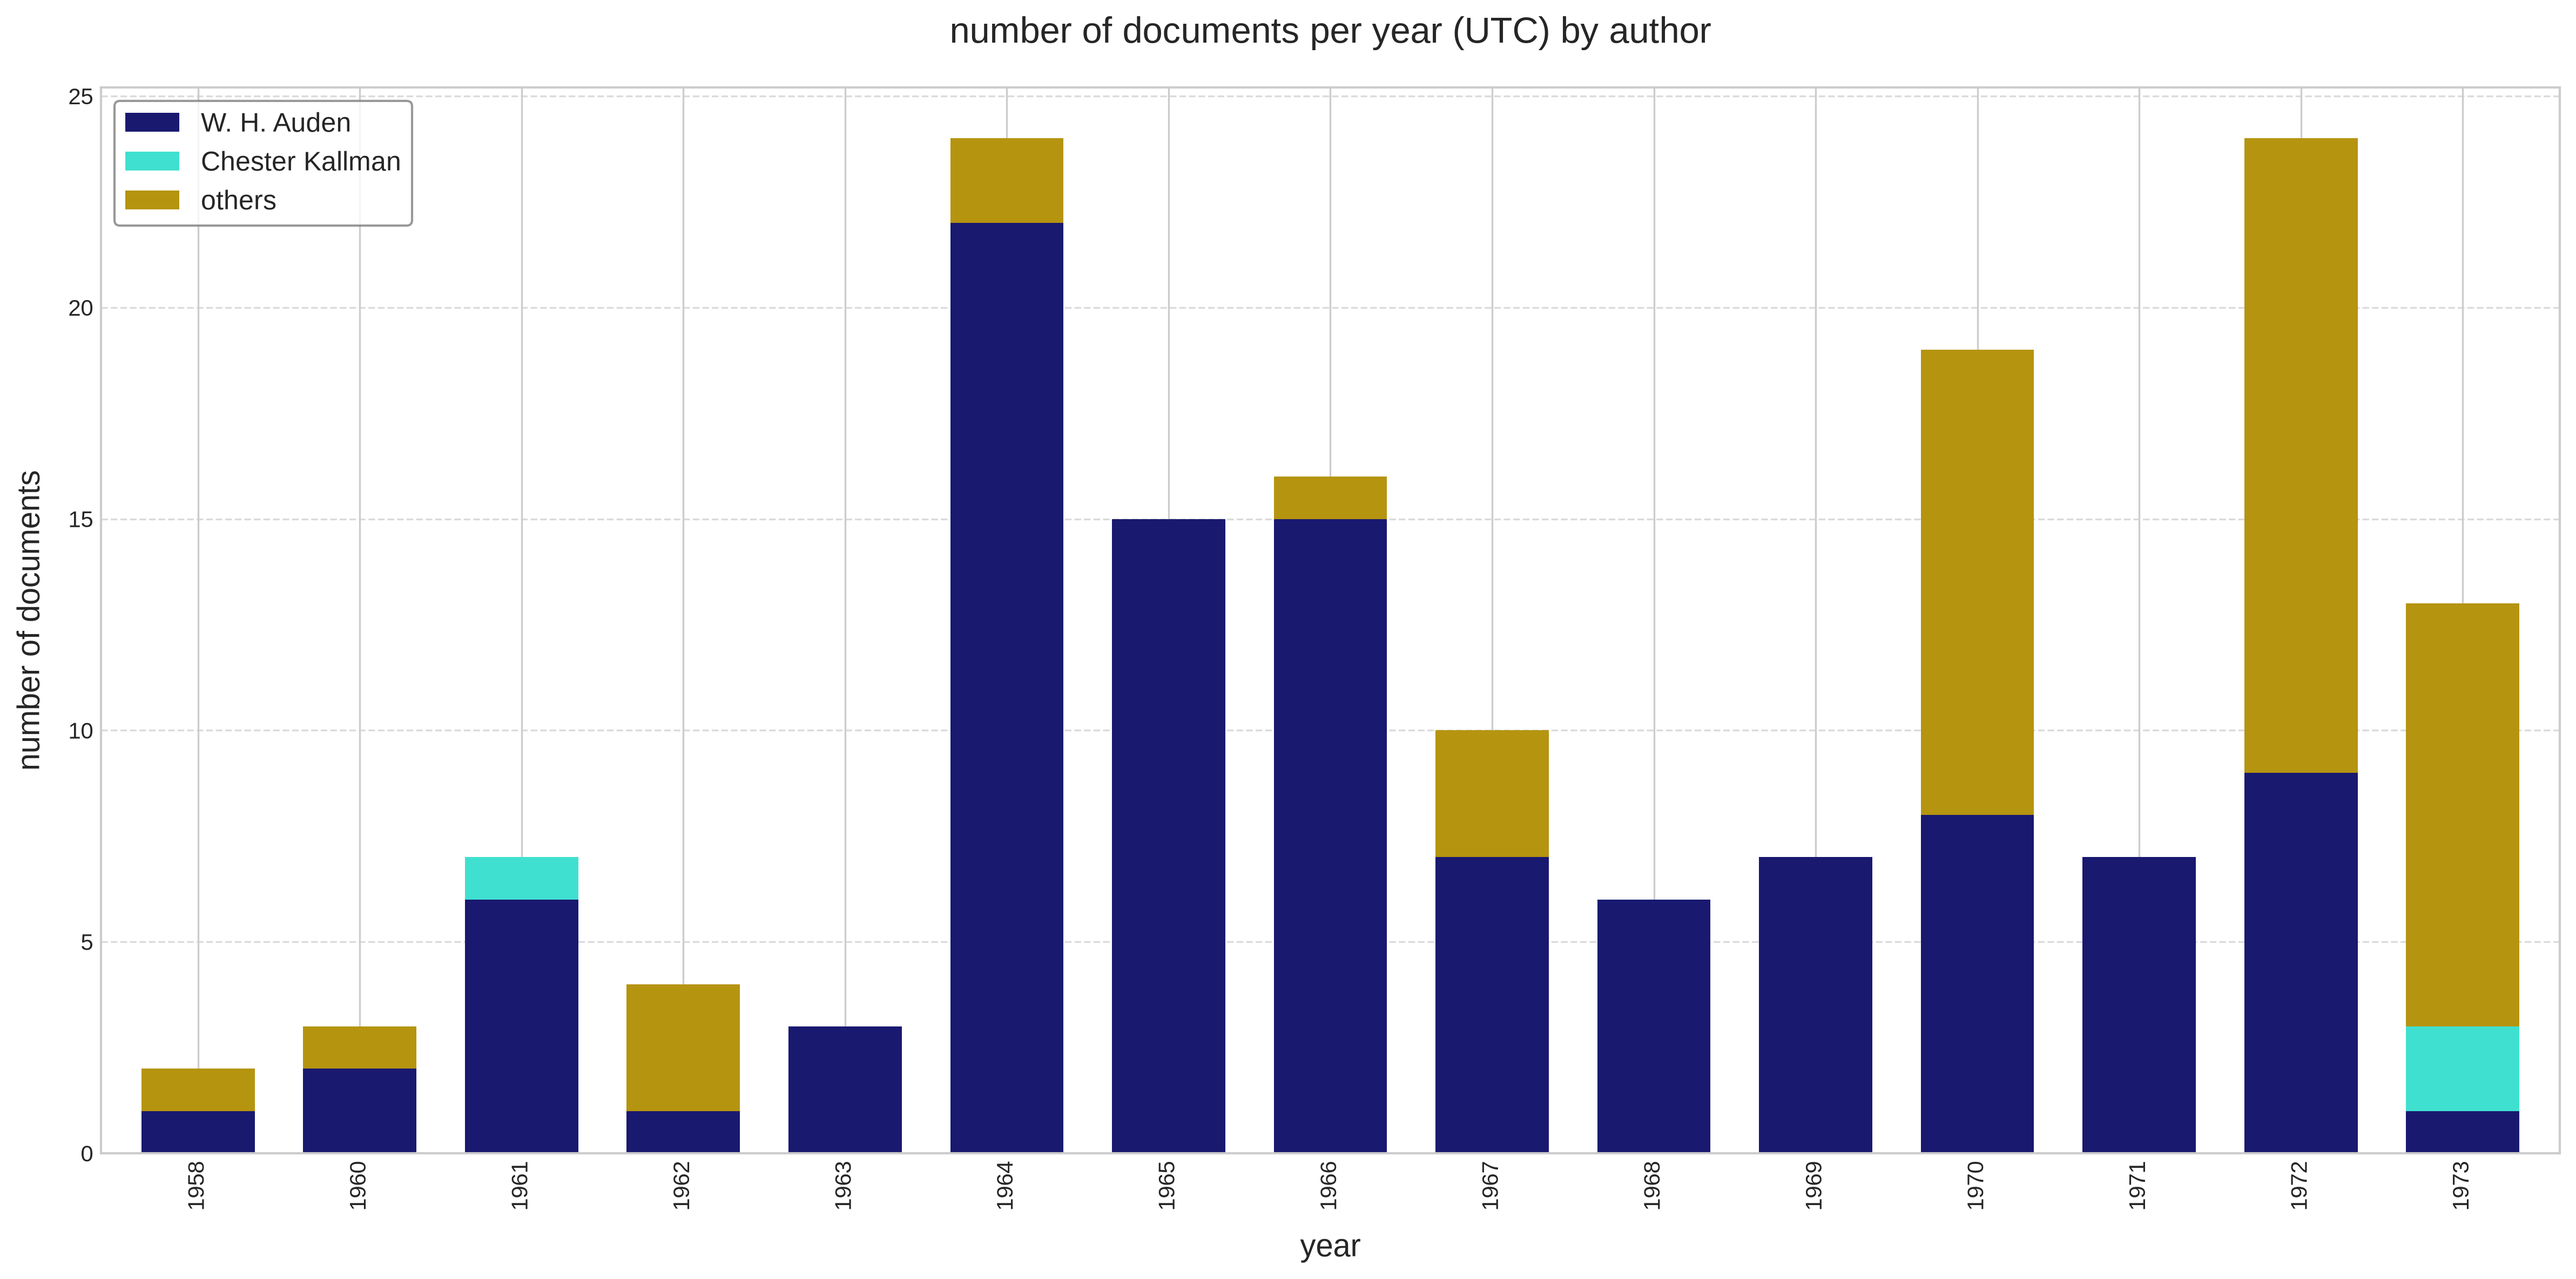
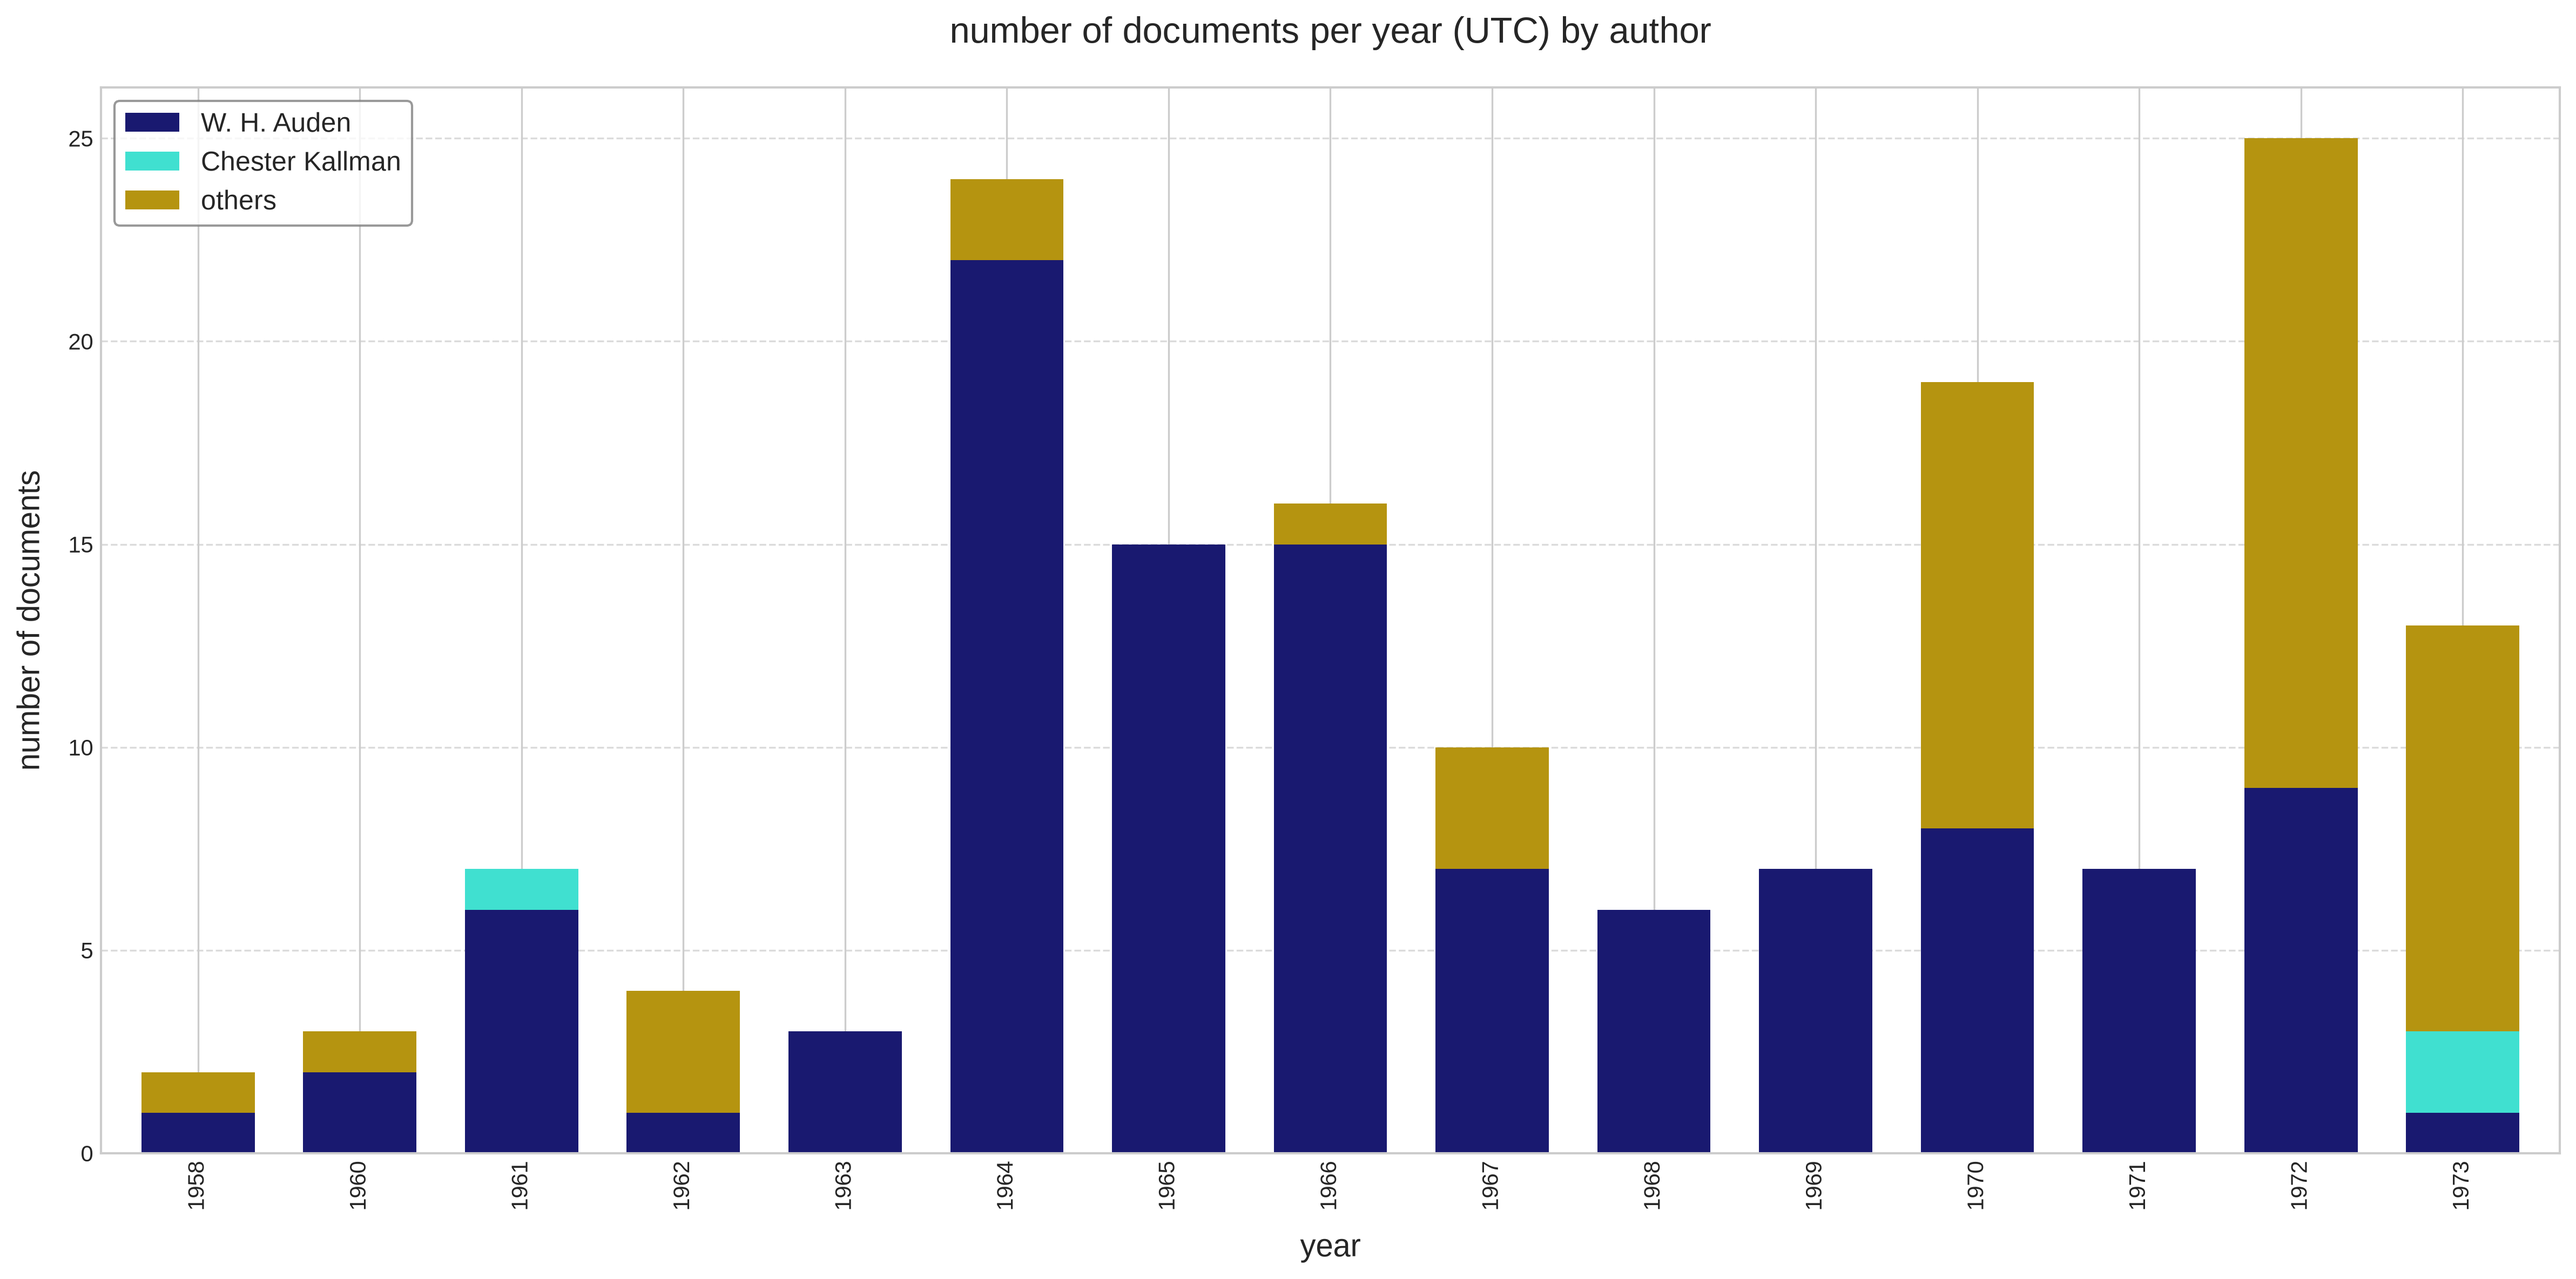
output csv written

diff --git a/metadata/md/metadata-analysis.md b/metadata/md/metadata-analysis.md
@@ -153,6 +153,7 @@ doc
 0158           Paul Bachmann Law Firm                                                                                                           Typed Letter Signed Paul Bachmann Law Firm to W. H. Auden 1972-09-04                         Vienna
 0159                   Bachmann, Paul                                                                                                                    Typed Letter Signed Paul Bachmann to W. H. Auden 1972-09-04                         Vienna
 0160                   Bachmann, Paul                                                                                                                    Typed Letter Signed Paul Bachmann to W. H. Auden 1972-10-30                         Vienna
+0161                   Bachmann, Paul                                                                                                                    Typed Letter Signed Paul Bachmann to W. H. Auden 1972-11-15                         Vienna
 0151                   Bronold, Hella                                                                                                                    Typed Letter Signed Hella Bronold to W. H. Auden 1973-09-24                         Vienna
 0146                     Auden, W. H.                                                                                                                      Typed Letter Signed W. H. Auden to Felix Braun 1958-11-03                  New York City
 0144                             N.N.                                                                                                                      Photograph N.N. House Hinterholz 6 1958-01-07--1973-09-28                   Kirchstetten
@@ -201,30 +202,30 @@ dtype: int64
 ### `df.info()`
 ```
 <class 'pandas.DataFrame'>
-RangeIndex: 468 entries, 0 to 467
+RangeIndex: 470 entries, 0 to 469
 Data columns (total 19 columns):
  #   Column          Non-Null Count  Dtype
 ---  ------          --------------  -----
- 0   img             468 non-null    int64
- 1   lrx             468 non-null    int64
- 2   lry             468 non-null    int64
- 3   width           468 non-null    int64
- 4   height          468 non-null    int64
- 5   type            468 non-null    str  
- 6   ed              468 non-null    str  
- 7   doc             468 non-null    str  
- 8   title           468 non-null    str  
- 9   author          468 non-null    str  
- 10  author-uri      468 non-null    str  
- 11  notBefore-iso   468 non-null    str  
- 12  notAfter-iso    468 non-null    str  
- 13  place           468 non-null    str  
- 14  place-uri       468 non-null    str  
- 15  repository      468 non-null    str  
- 16  repository-uri  468 non-null    str  
- 17  collection      468 non-null    str  
- 18  idno            468 non-null    str  
+ 0   img             470 non-null    int64
+ 1   lrx             470 non-null    int64
+ 2   lry             470 non-null    int64
+ 3   width           470 non-null    int64
+ 4   height          470 non-null    int64
+ 5   type            470 non-null    str  
+ 6   ed              470 non-null    str  
+ 7   doc             470 non-null    str  
+ 8   title           470 non-null    str  
+ 9   author          470 non-null    str  
+ 10  author-uri      470 non-null    str  
+ 11  notBefore-iso   470 non-null    str  
+ 12  notAfter-iso    470 non-null    str  
+ 13  place           470 non-null    str  
+ 14  place-uri       470 non-null    str  
+ 15  repository      470 non-null    str  
+ 16  repository-uri  470 non-null    str  
+ 17  collection      470 non-null    str  
+ 18  idno            470 non-null    str  
 dtypes: int64(5), str(14)
-memory usage: 69.6 KB
+memory usage: 69.9 KB
 
 ```
